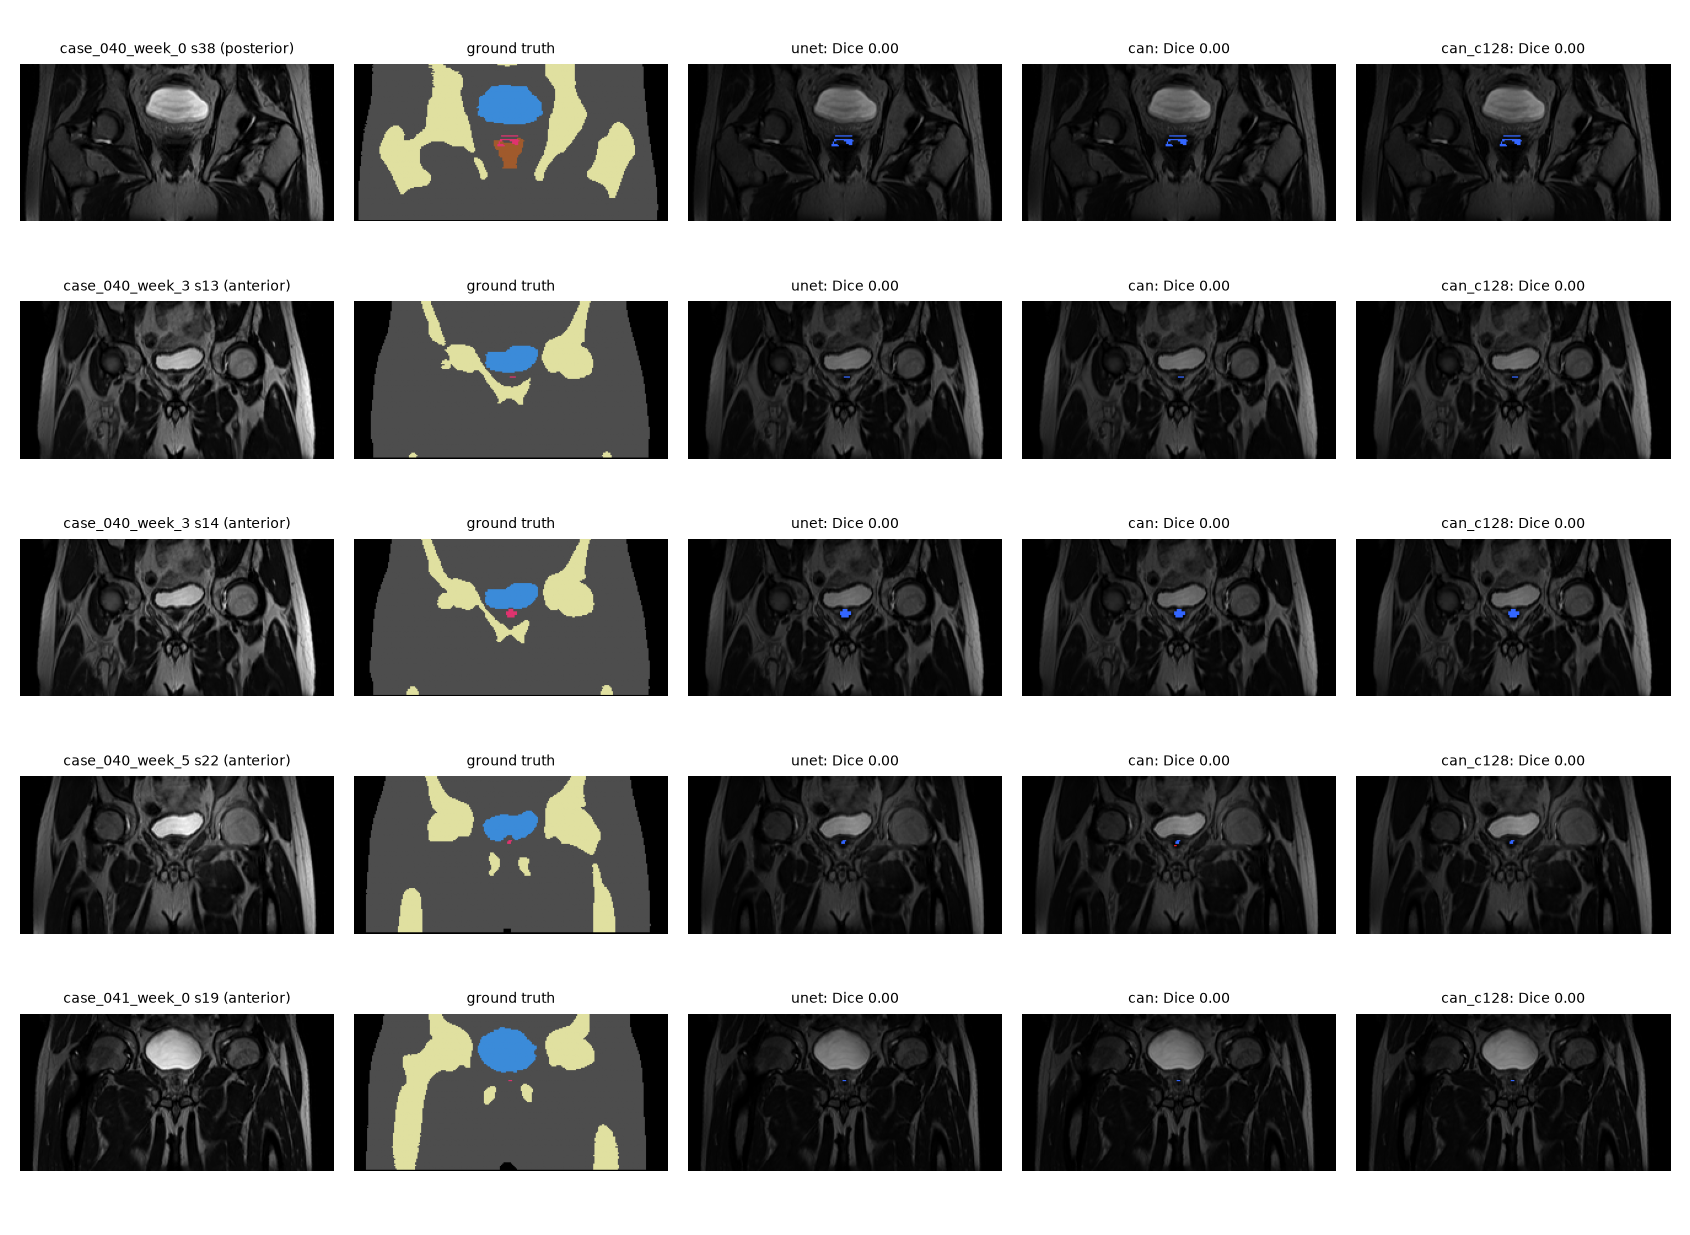
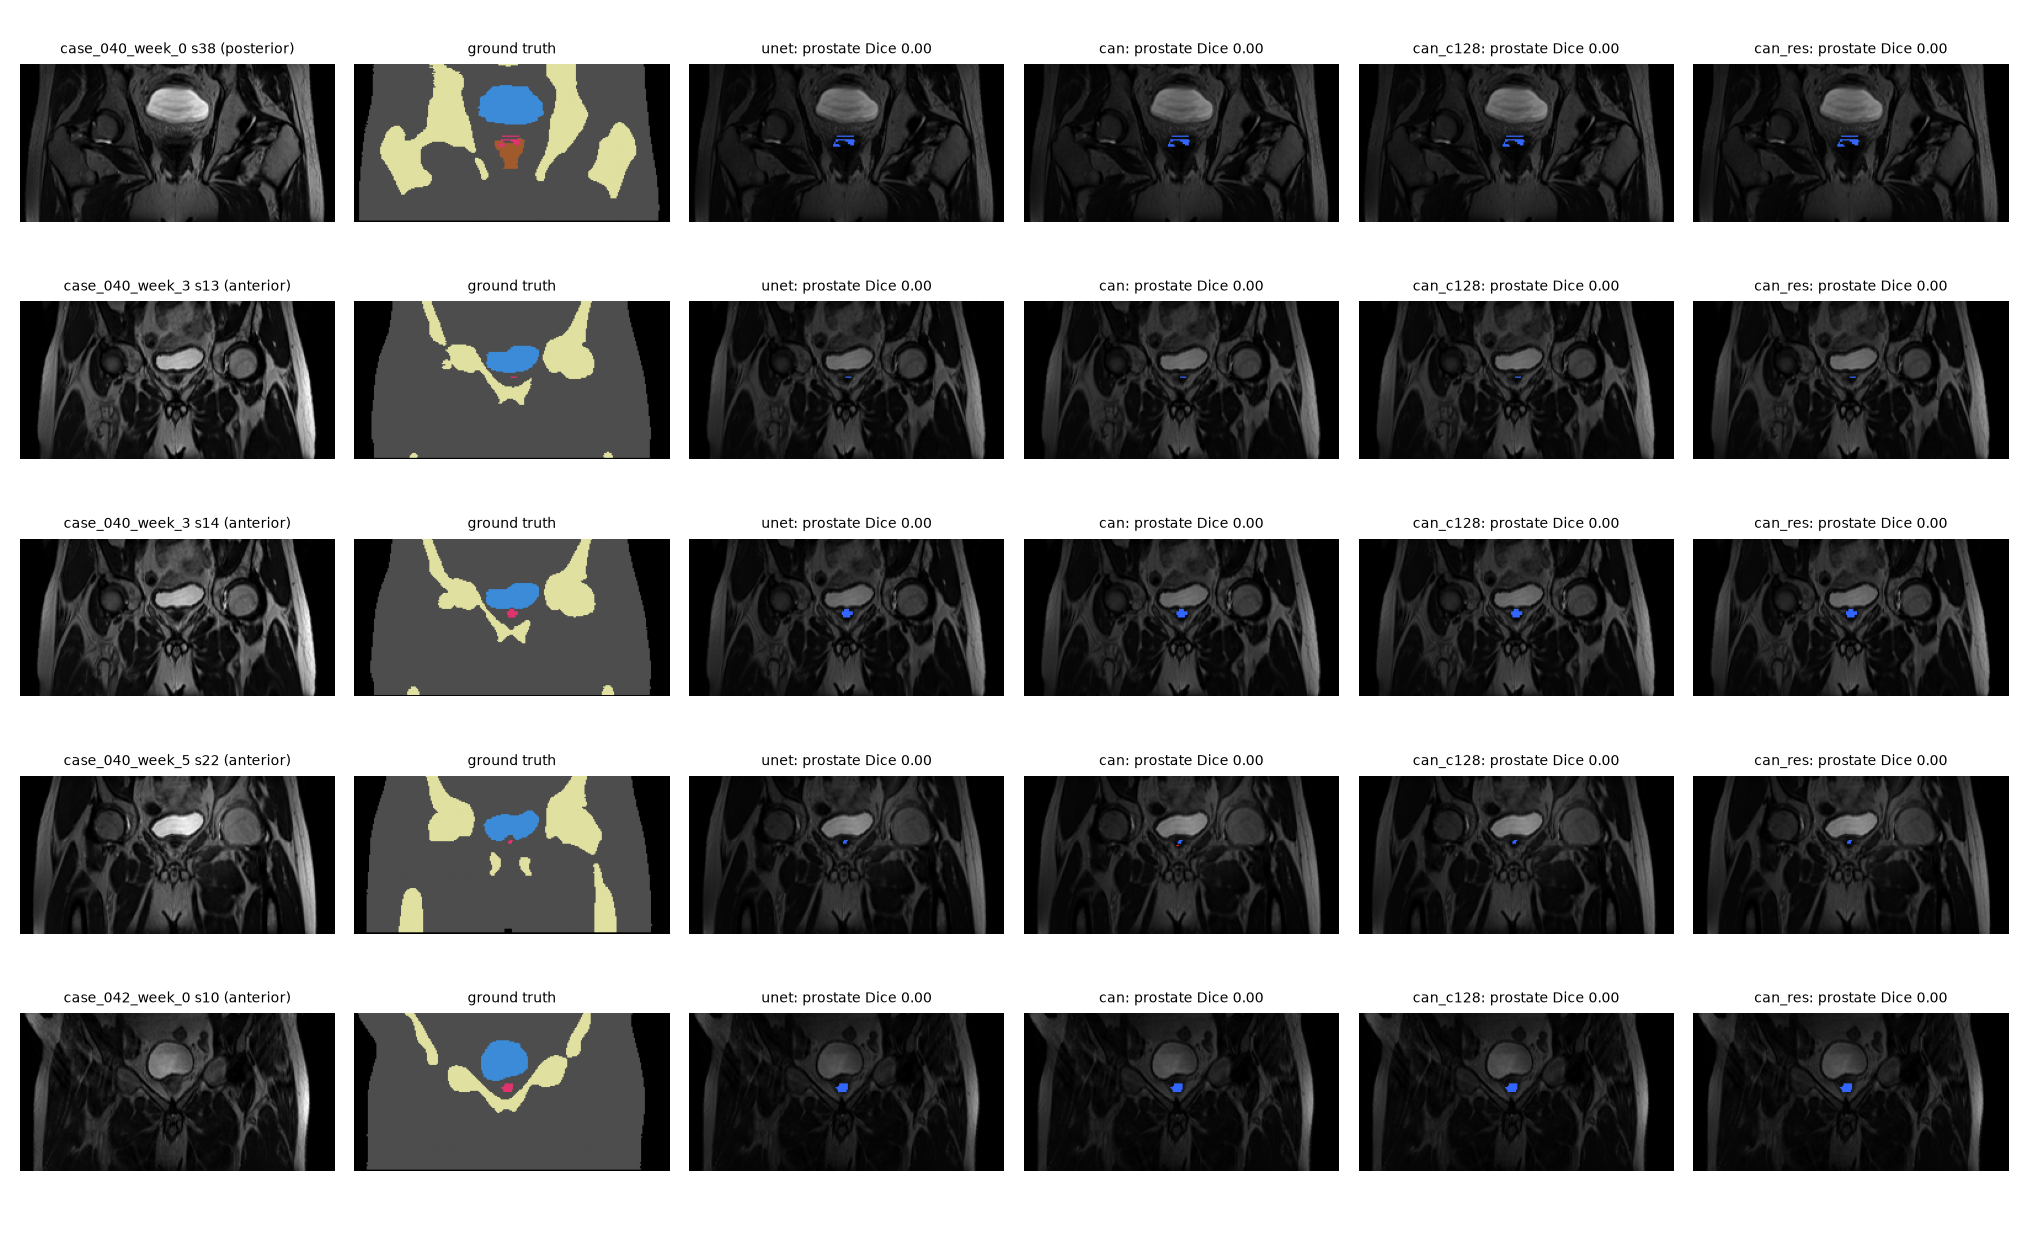
Rank over-predictions as failure cases and add ResidualCAN to figures
Dice cannot rank slices with no true prostate, so predict.py now also
ranks them by false prostate pixels. The two worst are the Case 4 slices.

diff --git a/recognition/CAN_s5042697/predict.py b/recognition/CAN_s5042697/predict.py
@@ -10,7 +10,10 @@ memory, and saves to --out-dir:
     <model>_per_slice.csv   one row per test slice
     <model>_worst.png       the worst prostate slices (input, truth,
                             prediction, error overlay)
-    compare_worst.png       the same slices for every model side by side
+    <model>_worst_fp.png    the worst over-predictions: slices with no true
+                            prostate, ranked by false prostate pixels
+    compare_worst.png       the worst slices for every model side by side
+    compare_worst_fp.png    the same for over-predictions
 
 The slices are coronal (iliac wings, femoral heads and shafts are visible,
 with the bladder directly above the prostate), so position is analysed on
@@ -253,6 +256,13 @@ def show(ax, img, title, **kwargs):
     ax.axis("off")
 
 
+def error_title(row):
+    """Dice where the slice has prostate; otherwise the false pixel count."""
+    if row["gt_pixels"] > 0:
+        return f"prostate Dice {row['prostate_dice']:.2f}"
+    return f"no prostate, {row['pred_pixels']} px false"
+
+
 def plot_worst(name, idx, rows, images, truths, preds, path):
     fig, axes = plt.subplots(len(idx), 4, figsize=(10, 1.9 * len(idx)), squeeze=False)
     for r, i in enumerate(idx):
@@ -262,7 +272,7 @@ def plot_worst(name, idx, rows, images, truths, preds, path):
         show(axes[r, 1], truths[i], "ground truth", cmap=LABEL_CMAP, vmin=0, vmax=NUM_CLASSES - 1)
         show(axes[r, 2], preds[i], f"{name} prediction", cmap=LABEL_CMAP, vmin=0, vmax=NUM_CLASSES - 1)
         show(axes[r, 3], error_overlay(images[i], truths[i], preds[i]),
-             f"prostate Dice {row['prostate_dice']:.2f}\nTP green, FP red, FN blue")
+             f"{error_title(row)}\nTP green, FP red, FN blue")
     fig.tight_layout()
     fig.savefig(path, dpi=130)
     plt.close(fig)
@@ -279,7 +289,7 @@ def plot_compare(idx, results, images, truths, path):
         for c, name in enumerate(names):
             res = results[name]
             show(axes[r, 2 + c], error_overlay(images[i], truths[i], res["preds"][i]),
-                 f"{name}: Dice {res['rows'][i]['prostate_dice']:.2f}")
+                 f"{name}: {error_title(res['rows'][i])}")
     fig.tight_layout()
     fig.savefig(path, dpi=130)
     plt.close(fig)
@@ -335,6 +345,14 @@ def main():
         worst = sorted(scored, key=lambda i: rows[i]["prostate_dice"])[:args.n_worst]
         plot_worst(name, worst, rows, images, truths, preds, os.path.join(args.out_dir, f"{name}_worst.png"))
 
+        # Dice cannot rank slices with no true prostate (it is 0 for any false
+        # prostate), so rank over-predictions by the number of false pixels.
+        false_slices = [i for i, r in enumerate(rows) if r["gt_pixels"] == 0 and r["pred_pixels"] > 0]
+        worst_fp = sorted(false_slices, key=lambda i: -rows[i]["pred_pixels"])[:args.n_worst]
+        if worst_fp:
+            plot_worst(name, worst_fp, rows, images, truths, preds,
+                       os.path.join(args.out_dir, f"{name}_worst_fp.png"))
+
     if len(results) > 1:
         # Slices that are worst on average across models, shown for every model.
         rows0 = next(iter(results.values()))["rows"]
@@ -342,6 +360,13 @@ def main():
         mean_dice = {i: np.mean([res["rows"][i]["prostate_dice"] for res in results.values()]) for i in scored}
         worst = sorted(scored, key=mean_dice.get)[:args.n_worst]
         plot_compare(worst, results, images, truths, os.path.join(args.out_dir, "compare_worst.png"))
+
+        # Over-predictions: empty slices with the most false prostate on average.
+        empty = [i for i, r in enumerate(rows0) if r["gt_pixels"] == 0]
+        mean_fp = {i: np.mean([res["rows"][i]["pred_pixels"] for res in results.values()]) for i in empty}
+        worst_fp = [i for i in sorted(empty, key=lambda i: -mean_fp[i]) if mean_fp[i] > 0][:args.n_worst]
+        if worst_fp:
+            plot_compare(worst_fp, results, images, truths, os.path.join(args.out_dir, "compare_worst_fp.png"))
 
     print(f"\nSaved CSVs and figures to {args.out_dir}")
 

diff --git a/recognition/CAN_s5042697/README.md b/recognition/CAN_s5042697/README.md
@@ -258,7 +258,7 @@ Neither variant closes the gap, and the test results (Sections 6.1 and 6.2) agre
 | Training time per epoch (11,460 slices) | **99 s** | 105 s | 127 s | 114 s |
 | Training time, 30 epochs | **~50 min** | ~53 min | ~64 min | ~57 min |
 
-Measured on an NVIDIA A100-PCIE-40GB. Training memory and time are from the seed-42 run. Inference memory and time are the mean over 3 seeds, all measured in one job so the conditions match. Inference time varies between jobs: an earlier job on the same GPU type measured 1.6 ms (CAN) and 3.0 ms (CAN-128), while the U-Net stayed at 2.7 ms. Treat the timings as rough.
+Measured on an NVIDIA A100-PCIE-40GB. Training memory and time are from the seed-42 run. Inference memory and time are the mean over 3 seeds, all measured in one job so the conditions match. Inference time varies between jobs: an earlier job on the same GPU type measured 1.6 ms (CAN) and 3.0 ms (CAN-128), while the U-Net stayed at 2.7 ms. 
 
 **Memory depends on whether you train or predict:**
 
@@ -267,38 +267,33 @@ Measured on an NVIDIA A100-PCIE-40GB. Training memory and time are from the seed
 
 **What this means operationally:** both models are cheap at inference. A 60-slice scan takes well under a second with either, and either fits on any modern GPU. The CAN's lower inference memory and faster speed would matter only on very constrained hardware, which an offline contouring tool does not need. Its higher training memory is a real cost when retraining, but 3 GB still fits on a mid-range GPU.
 
-### 6.5 Fairness and limitations
+### 6.5 Limitations
 
-**What was kept identical.** All models used the same data, patient splits, preprocessing, augmentation, loss, optimiser, learning-rate schedule, batch size, number of epochs, checkpoint selection rule (best validation prostate Dice), seeds and GPU type. All 12 models were scored on the same 3 test patients by the same `predict.py` run. The U-Net runs were trained earlier than the CAN runs, but `dataset.py` and `utils.py` are byte-identical between the two, and `train.py` differs only in comments and saved metadata.
-
-**Where the CAN may have been at a disadvantage:**
-
-| Possible disadvantage | Tested? |
-|---|---|
-| **Small front-end.** In Yu and Koltun's paper the context module sits on a large pretrained network (VGG-16). Here it sits on two small convolutions trained from scratch, so this study tests a context module with a minimal front-end, not the paper's full system. | No |
-| **No identity initialisation** in the plain CAN, which the paper recommends. | Partly: ResidualCAN adds it, together with new dilations, and did not improve. |
-| **Untuned training settings.** The learning rate and schedule come from U-Net-family work (Isensee et al.) and were not tuned for either model. | No |
-| **Far fewer parameters** (23× fewer; CAN-128 6× fewer). | Mostly: CAN-128 did not improve. A smaller U-Net (1.94M parameters, seed 42 only) from an earlier run still scored prostate 0.865 and rectum 0.885, ahead of every CAN on rectum. |
-| **Smaller view** (135–145 px vs ~188 px for the U-Net). | No |
-
-So the results show that **this** CAN configuration does not beat the U-Net. They do not show that multi-scale dilated context can never help.
-
-**Other limitations:**
-
-- **3 test patients** (9 scans). Small differences, such as the U-Net's 0.01–0.02 prostate lead, are close to the noise.
+- **3 test patients, dominated by one.** Of the 9 test scans, 7 are repeat scans of patient 040 (weeks 0–7); patients 041 and 042 have one scan each. The results therefore mostly describe one patient. Small differences, such as the U-Net's 0.01–0.02 prostate lead, are close to the noise.
 - **2D only.** No model sees neighbouring slices, which is the likely cause of the shared edge-slice failures (Section 7).
 - **Tiny labels.** Some Dice-0 slices have only 1–9 prostate pixels, which may be labelling noise, and they pull down the edge-slice averages for every model equally.
 - **Timing** varies between Rangpur jobs (Section 6.4), so inference times are approximate.
 
 ## 7. Failure case analysis
 
-**How the cases were chosen.** [`predict.py`](predict.py) ranks every test slice that contains prostate by its prostate Dice and plots the worst ones. Comparing these across all 12 trained models gave the most important result of this section: **the worst slices are the same for every model**. All five below are edge slices. Every model scores Dice 0 on all five, with one exception: one ResidualCAN run gets Dice 0.29 on the 3-pixel slice (Case 3).
+**How the cases were chosen.** [`predict.py`](predict.py) ranks the test slices in two ways, so that both kinds of error are found:
 
-![Five worst slices for U-Net, CAN and CAN-128](images/compare_worst.png)
+- **Missed prostate:** slices that contain prostate, ranked by prostate Dice (lowest first).
+- **False prostate:** slices with **no** true prostate, ranked by how many pixels the model wrongly labels as prostate. Dice cannot rank these, because it is 0 for any false prostate, whether 1 pixel or 200.
 
-*The five slices with the lowest prostate Dice averaged over the seed-42 U-Net, CAN and CAN-128. Columns: input, ground truth (blue bladder, pink prostate, brown rectum, yellow bone), then each model's error overlay (green correct prostate, red false prostate, blue missed prostate). Every model misses the whole prostate on every one of these slices.*
+The figures below use the seed-42 run of each of the four models.
 
-The prostate on these slices is only a few pixels, so the cases below use zoomed 48×48 crops. Cases 1–3 are missed prostate (under-contouring). Case 4 is the opposite error, false prostate (over-contouring), which the CAN makes and the U-Net does not.
+**Worst missed prostate.** The five slices with the lowest prostate Dice are the same for every model, and every model scores Dice 0 on all five. All are edge slices: the prostate is small and every model misses all of it (blue).
+
+![Five worst missed-prostate slices](images/compare_worst.png)
+
+**Worst false prostate.** On the five slices with the most false prostate, the U-Net draws **none**, while every CAN version draws a false prostate (red) where the rectum is. ResidualCAN draws the most, up to 208 pixels.
+
+![Five worst false-prostate slices](images/compare_worst_fp.png)
+
+*Columns: input, ground truth (blue bladder, pink prostate, brown rectum, yellow bone), then each model's error overlay (green correct prostate, red false prostate, blue missed prostate).*
+
+The prostate on these slices is only a few pixels, so the cases below use zoomed 48×48 crops. Cases 1–3 are missed prostate (under-contouring). Case 4 is false prostate (over-contouring), made by every CAN version but not the U-Net.
 
 ![Zoomed failure cases](images/failure_crops.png)
 
@@ -307,29 +302,29 @@ The prostate on these slices is only a few pixels, so the cases below use zoomed
 ### Case 1: posterior tip lost in the rectal wall (`case_040_week_0`, slice 38)
 
 - **What the slice shows:** the last slice of the prostate at the back. The true prostate is 65 pixels in thin, broken strips lying directly on top of the rectum.
-- **What the models predict:** no prostate, in every model. The U-Net labels 47 of the 65 prostate pixels as **rectum** and the rest as body. The CAN and CAN-128 split them similarly.
+- **What the models predict:** no prostate, in every model. The U-Net labels 47 of the 65 prostate pixels as **rectum** and the rest as body. The CAN versions split them similarly (24–38 as rectum).
 - **Why it fails:** on this slice the prostate and the rectal wall have very similar grey levels, with little visible boundary between them in the crop. The model has to rely mostly on shape and position, and a thin strip sitting on the rectum looks like part of the rectum.
 - **Clinical consequence:** under-contouring at the prostate-rectum interface, the exact location the spec warns about. The real risk is that a reviewer, seeing a clean rectum contour, does not notice the missing prostate.
 
 ### Case 2: anterior tip missed under the bladder (`case_040_week_3`, slice 14)
 
 - **What the slice shows:** near the front end of the prostate. A compact 47-pixel prostate sits just below the bladder, between it and the pubic bone.
-- **What the models predict:** no prostate. All three label it as body (general soft tissue), and a few pixels as bladder.
+- **What the models predict:** no prostate. All four label it as body (general soft tissue), and a few pixels as bladder.
 - **Why it fails:** the tissue has a similar intensity to the surrounding body tissue, and the blob is small. In a single slice there is no evidence that it is the start of the prostate, which grows over the next slices (Section 6.2 figure). This is the clearest example of missing information across slices rather than within them.
 - **Clinical consequence:** under-contouring of the prostate's anterior end, which risks under-dosing the tumour.
 
 ### Case 3: a 3-pixel label (`case_041_week_0`, slice 19)
 
 - **What the slice shows:** the ground truth marks only 3 pixels as prostate, a tiny line under the bladder.
-- **What the models predict:** nothing, in every model.
+- **What the models predict:** the U-Net, CAN and CAN-128 predict nothing. ResidualCAN finds the 3 pixels but adds 15 false ones around them.
 - **Interpretation:** this is probably not a meaningful model failure. A 3-pixel structure is at the limit of manual annotation and may be partial-volume labelling noise. Several of the Dice-0 slices are like this (1–9 pixels). They still count as Dice 0 in the per-slice averages, which is one reason the edge-slice scores in Section 6.2 are so low. **When reading those scores, separate these tiny labels from real misses like Cases 1 and 2** (47–148 pixels).
 
 ### Case 4: the CAN adds a false prostate over the rectum (`case_040_week_3`, slices 33–34)
 
 - **What the slice shows:** just past the back end of the prostate, so this slice has **no true prostate**: only body tissue and rectum.
-- **What the models predict:** the U-Net correctly predicts no prostate. The CAN draws about 100 pixels of prostate on each slice, and CAN-128 draws about the same. On slice 34, **84 of the CAN's 100 false prostate pixels sit on true rectum** (88 of 90 for CAN-128).
+- **What the models predict:** the U-Net correctly predicts no prostate. The CAN and CAN-128 draw about 100 pixels of prostate on each slice, and ResidualCAN about 200. On slice 34, **84 of the CAN's 100 false prostate pixels sit on true rectum** (88 of 90 for CAN-128, 140 of 185 for ResidualCAN). This slice and slice 33 are the two worst false-prostate slices found by the automatic ranking above.
 - **Why it fails:** this matches finding 3 in Section 6.2. The CAN extends the prostate a slice or two past its real end, and here the extension lands on the rectum. A possible reason, not tested here, is that its wide view sees the anatomy that usually surrounds a prostate and fills one in.
-- **Clinical consequence:** this is the most dangerous failure in the study. A prostate contour that leaks into the rectum means the rectal wall would be planned to receive the full prostate dose, which is the cause of **radiation proctitis** named in the spec. Notably, it is made only by the model with more context.
+- **Clinical consequence:** this is the most dangerous failure in the study. A prostate contour that leaks into the rectum means the rectal wall would be planned to receive the full prostate dose, which is the cause of **radiation proctitis** named in the spec. Notably, it is made only by the CAN versions.
 
 ### Summary
 
@@ -337,8 +332,8 @@ The prostate on these slices is only a few pixels, so the cases below use zoomed
 |---|---|---|---|---|
 | 1 | missed prostate, labelled as rectum | all | posterior edge | high: under-dose at the rectal interface |
 | 2 | missed prostate, labelled as body | all | anterior edge | high: under-dose |
-| 3 | 3-pixel label missed | all | anterior edge | low: probably label noise |
-| 4 | false prostate on the rectum | CAN, CAN-128 (not U-Net) | beyond the posterior edge | highest: rectal overdose |
+| 3 | 3-pixel label missed | U-Net, CAN, CAN-128 | anterior edge | low: probably label noise |
+| 4 | false prostate on the rectum | all CAN versions (not U-Net) | beyond the posterior edge | highest: rectal overdose |
 
 **Likely root cause.** The same slices fail for every architecture, which suggests the failure comes from the slice-by-slice 2D input rather than from the CAN or U-Net design. A single slice gives no evidence that the prostate is just starting or ending in the neighbouring slice, so a few-pixel cross-section can look like background. More in-plane context, which is what the CAN adds, would not supply information that lies across slices. This is consistent with neither CAN variant improving the edge slices, but it has not been tested directly. The natural next experiment is a 2.5D input (the neighbouring slices as extra channels).
 
@@ -357,7 +352,7 @@ All four are met. The CAN passes the accuracy target, but it does not beat the b
 
 **To the project manager:**
 
-1. **Use the 2D U-Net, not the CAN.** Across three CAN versions (standard, 4× wider, and with hybrid dilations), multi-scale context gave no measurable clinical gain at the prostate boundaries. This applies to the CAN as built here, with a small front-end and untuned settings (Section 6.5). Every version is less accurate at the rectum, the critical organ at risk, and draws false prostate past the real ends of the prostate 6–12× as often. In the worst case found (Section 7, Case 4), that false prostate lies on the rectal wall, which in treatment would mean a rectal overdose. The CAN's advantages are its 23× smaller size, about half the inference memory, and faster inference. These do not matter for an offline contouring tool, and it needs 1.8× the GPU memory to train.
+1. **Use the 2D U-Net, not the CAN.** Across three CAN versions (standard, 4× wider, and with hybrid dilations), multi-scale context gave no measurable clinical gain at the prostate boundaries. Every version is less accurate at the rectum, the critical organ at risk, and draws false prostate past the real ends of the prostate 6–12× as often. In the worst case found (Section 7, Case 4), that false prostate lies on the rectal wall, which in treatment would mean a rectal overdose. The CAN's advantages are its 23× smaller size, about half the inference memory, and faster inference. These do not matter for an offline contouring tool, and it needs 1.8× the GPU memory to train.
 2. **Do not automate the edge slices.** With every model, the first and last few prostate-bearing slices of each scan, plus the base and apex regions, need mandatory review by a specialist. The tool is suitable as a draft on central slices (Dice ≈ 0.91–0.92).
 3. **Next investment: inter-slice context, not more in-plane context.** The shared failures point to a 2.5D input (neighbouring slices as extra channels) or a 3D model as the next step, not a wider 2D context.
 4. **Caveat:** 3 test patients is a small sample. Validate on more patients before any clinical use.
@@ -389,7 +384,7 @@ python predict.py --checkpoints runs/unet/best.pt runs/can/best.pt --out-dir run
 
 # Regenerate the README figures in images/ (needs all 12 runs, and predict.py run on all 12 into runs/predict_all12);
 # --checkpoints also draws example.png and failure_crops.png, which need the data and weights
-python plot_figures.py --checkpoints runs/unet/best.pt runs/can/best.pt runs/can_c128/best.pt
+python plot_figures.py --checkpoints runs/unet/best.pt runs/can/best.pt runs/can_c128/best.pt runs/can_res/best.pt
 ```
 
 **Example output of `predict.py`** (U-Net, seed 42):
